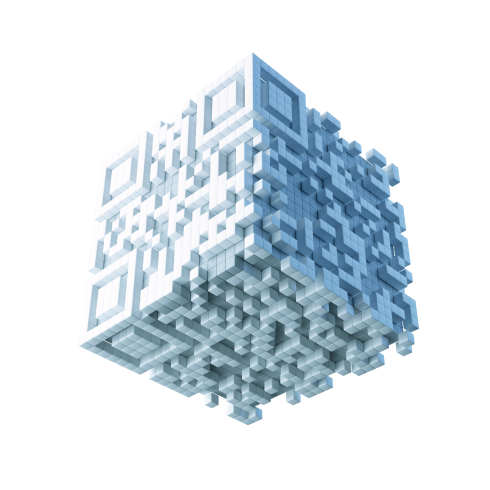
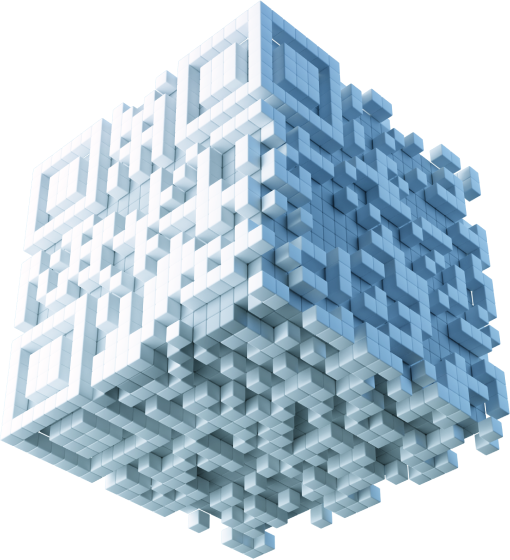
Изменен cube

diff --git a/src/styles/home.module.scss b/src/styles/home.module.scss
@@ -35,15 +35,18 @@
 
 .cube {
   position: relative;
-  width: 100vw;
+  width: calc(100vw - 80px);
   aspect-ratio: 1;
-  max-width: 490px;
+  right: 1px;
+  max-width: 340px;
+  max-height: 373px;
   animation-name: floating;
   animation-duration: 2s;
   animation-iteration-count: infinite;
   animation-direction: alternate;
   animation-timing-function: ease-in-out;
-  margin-bottom: 40px;
+  margin-top: 35px;
+  margin-bottom: 45px;
 }
 
 .button {
@@ -57,6 +60,13 @@
   font-family: HeadingNow;
   text-align: center;
   min-width: 150px;
+
+  @media (max-width: 400px) {
+    height: 50px;
+    font-size: 30px;
+    min-width: 120px;
+    border-radius: 20px;
+  }
 
   .buttonText {
     position: relative;
@@ -136,7 +146,7 @@
 }
 
 .link {
-  color: #8CA7C0;
+  color: #8ca7c0;
   text-decoration-line: underline;
   font-size: 12px;
   transition: 0.3s;
